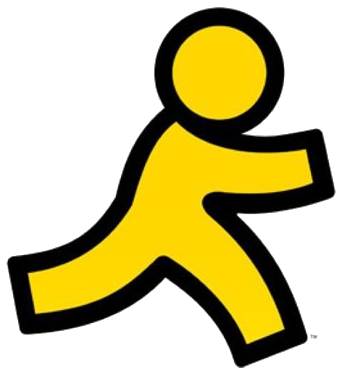
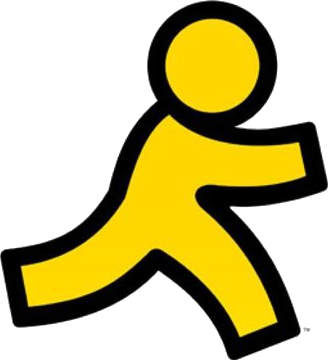
Center the sign-on brand lockup and drop the pitch line

diff --git a/index.html b/index.html
@@ -65,11 +65,17 @@
   #signon .dialog { width: 300px; }
   #signon .body { padding: 14px; }
   #signon .brand {
-    display: flex; align-items: center; gap: 8px; margin-bottom: 10px;
+    text-align: center; margin-bottom: 10px;
     background: var(--title-a); padding: 6px 8px;
   }
-  #signon .brand .word { font-weight: bold; font-size: 20px; color: #fff; font-style: italic; }
-  #signon .brand .brand-logo { width: auto; height: 33px; display: block; flex-shrink: 0; }
+  #signon .brand .word {
+    display: inline-block; vertical-align: middle; text-align: left;
+    font-weight: bold; font-size: 20px; color: #fff; font-style: italic;
+  }
+  #signon .brand .brand-logo {
+    display: inline-block; vertical-align: middle;
+    width: auto; height: 33px; margin-right: 8px;
+  }
   #signon .brand .word span { color: var(--aim-yellow); }
   #signon label { display: block; margin: 8px 0 2px; font-weight: bold; }
   #signon input {
@@ -78,7 +84,6 @@
   }
   #signon .row { display: flex; justify-content: space-between; align-items: center; margin-top: 12px; }
   #signon .ver { color: #333; }
-  #signon .pitch { margin-top: 10px; color: #222; line-height: 1.45; }
 
   /* ---------- Windows ---------- */
   .window {
@@ -412,7 +417,7 @@
     <div class="body">
       <div class="brand">
         <img class="brand-logo" src="aol-figure.png" alt="AOL running figure" width="30" height="33">
-        <div class="word"><span>Parent Advisor</span> Online</div>
+        <span class="word"><span>Parent Advisor</span><br>Online</span>
       </div>
       <label for="snInput">ScreenName</label>
       <input id="snInput" value="VisitingParent" maxlength="16" autocomplete="off" spellcheck="false">
@@ -423,7 +428,6 @@
         <span class="ver">Version: 5.9.3702</span>
         <button class="btn3d" id="signOnBtn" style="font-weight:bold;padding:4px 22px;">Sign On</button>
       </div>
-      <div class="pitch">A knowledge base your experts control, and the assistant that answers out of it. Preview derived from the vault (1,300+ notes).</div>
     </div>
   </div>
 </div>
